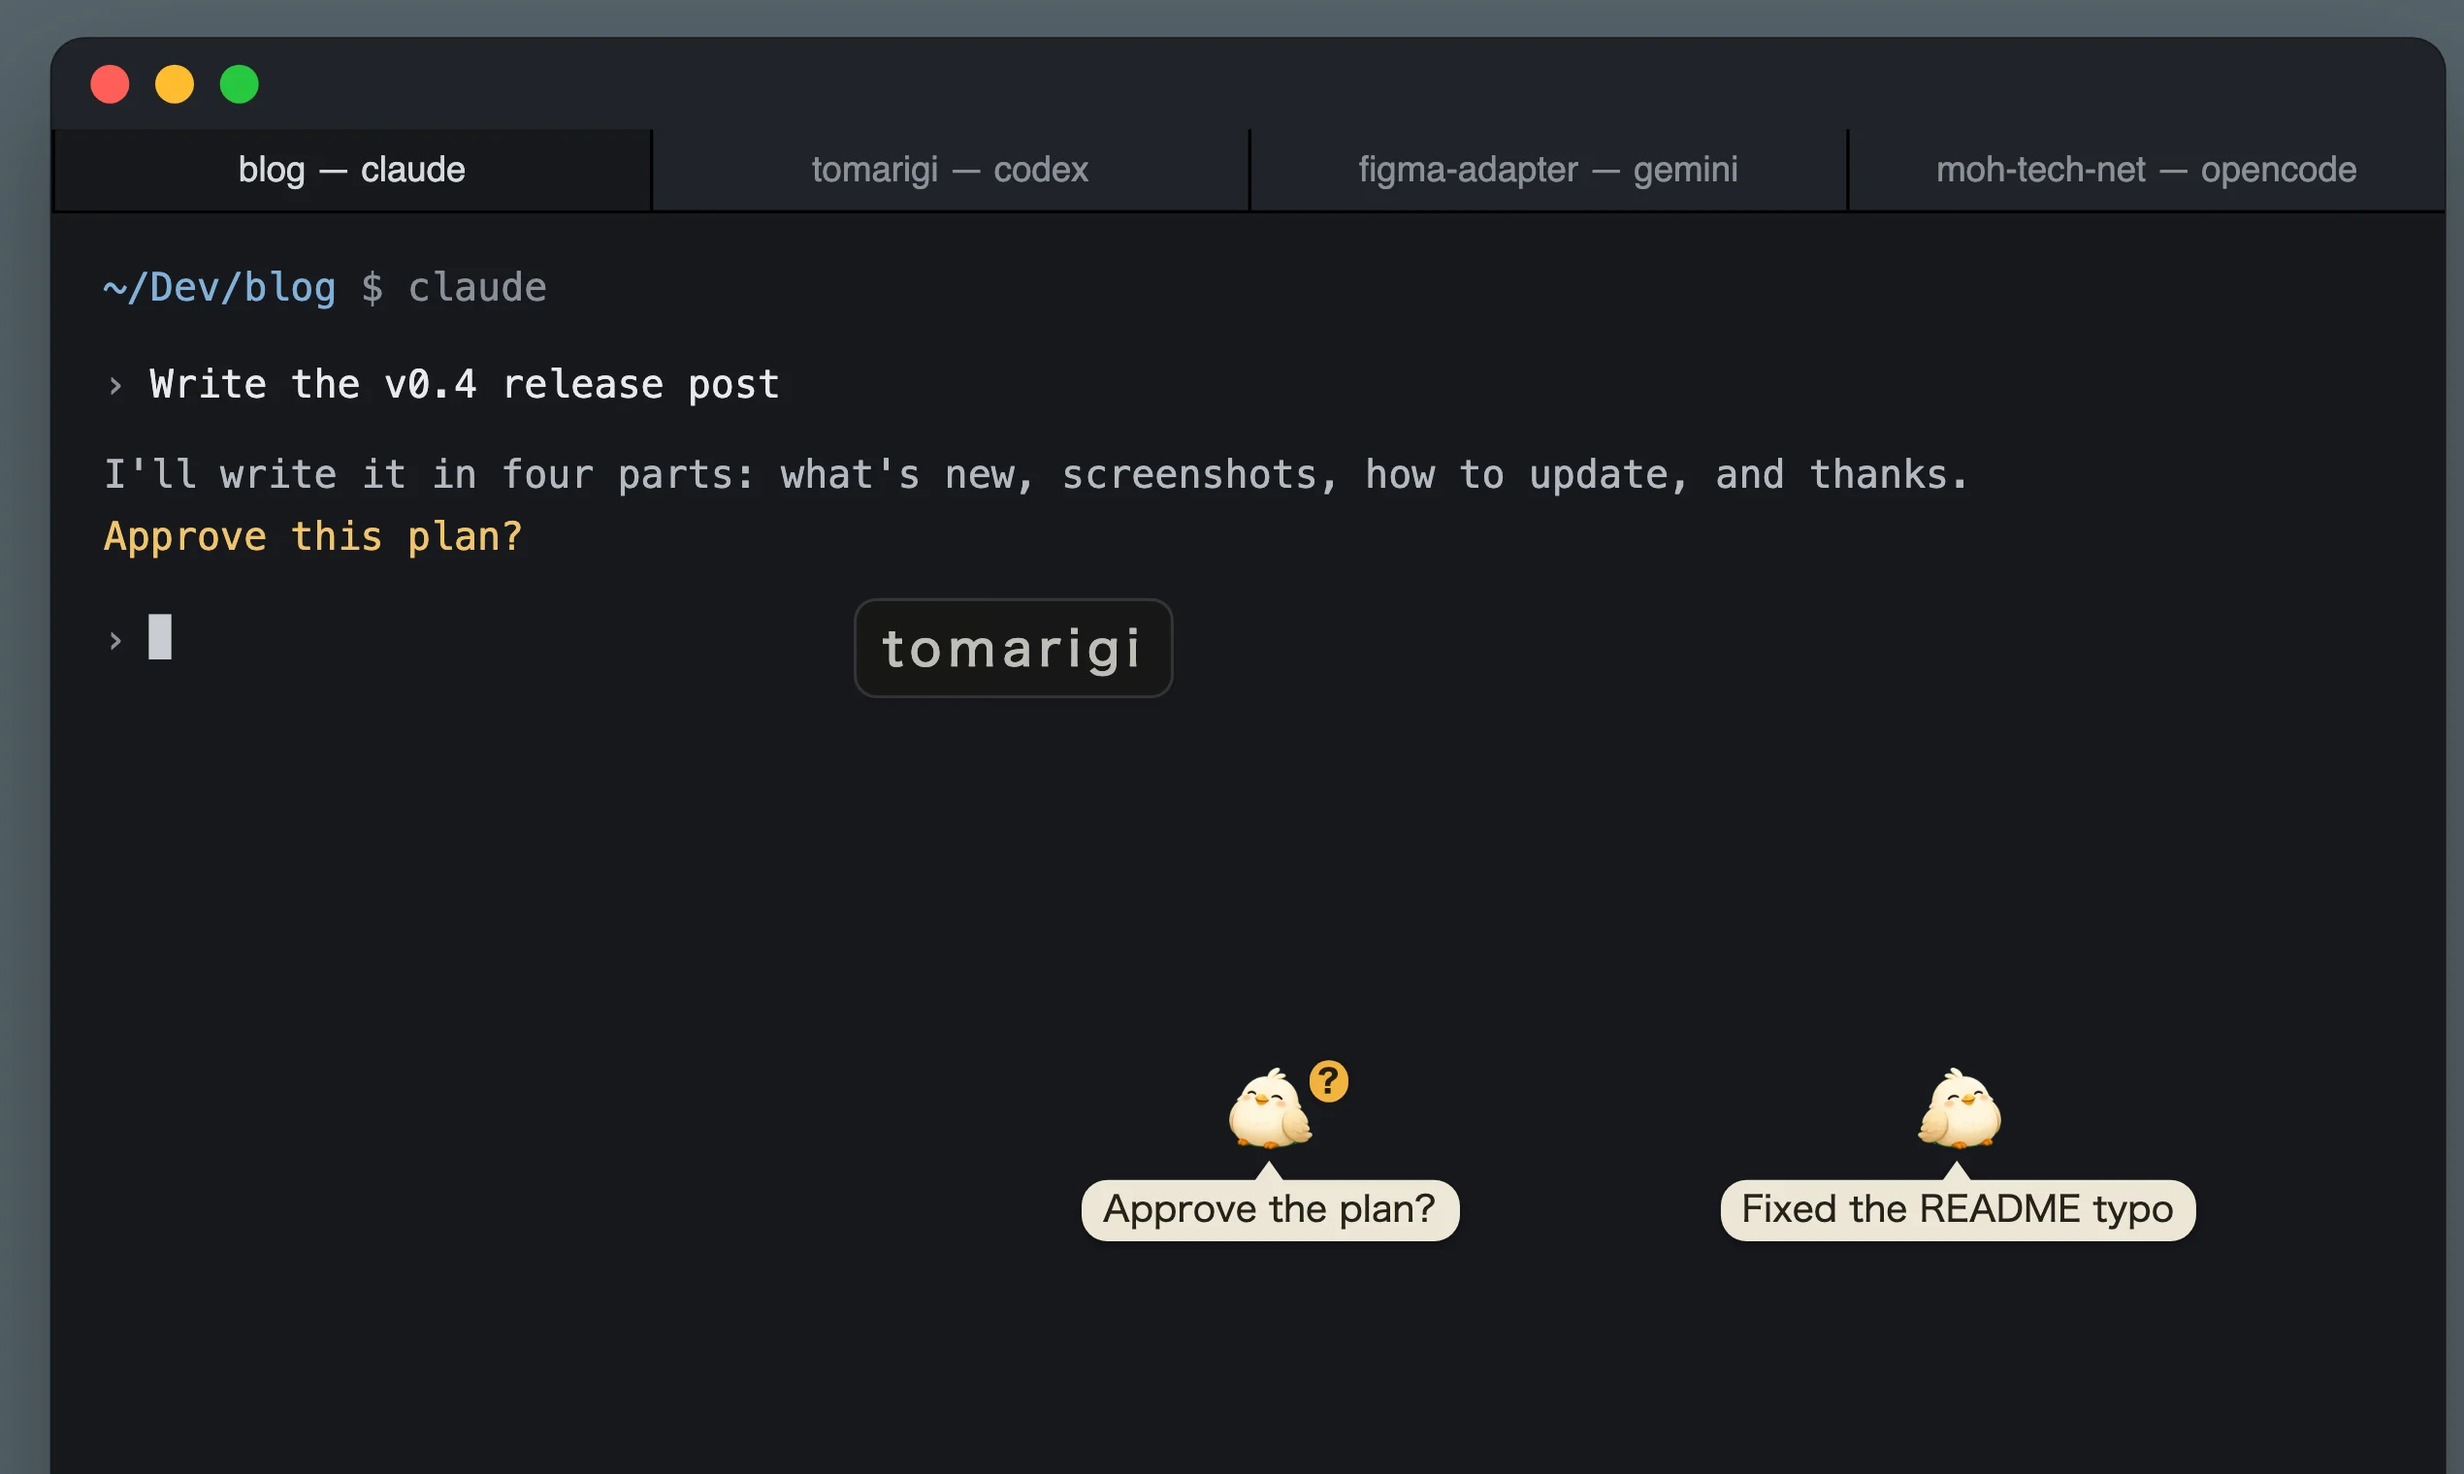
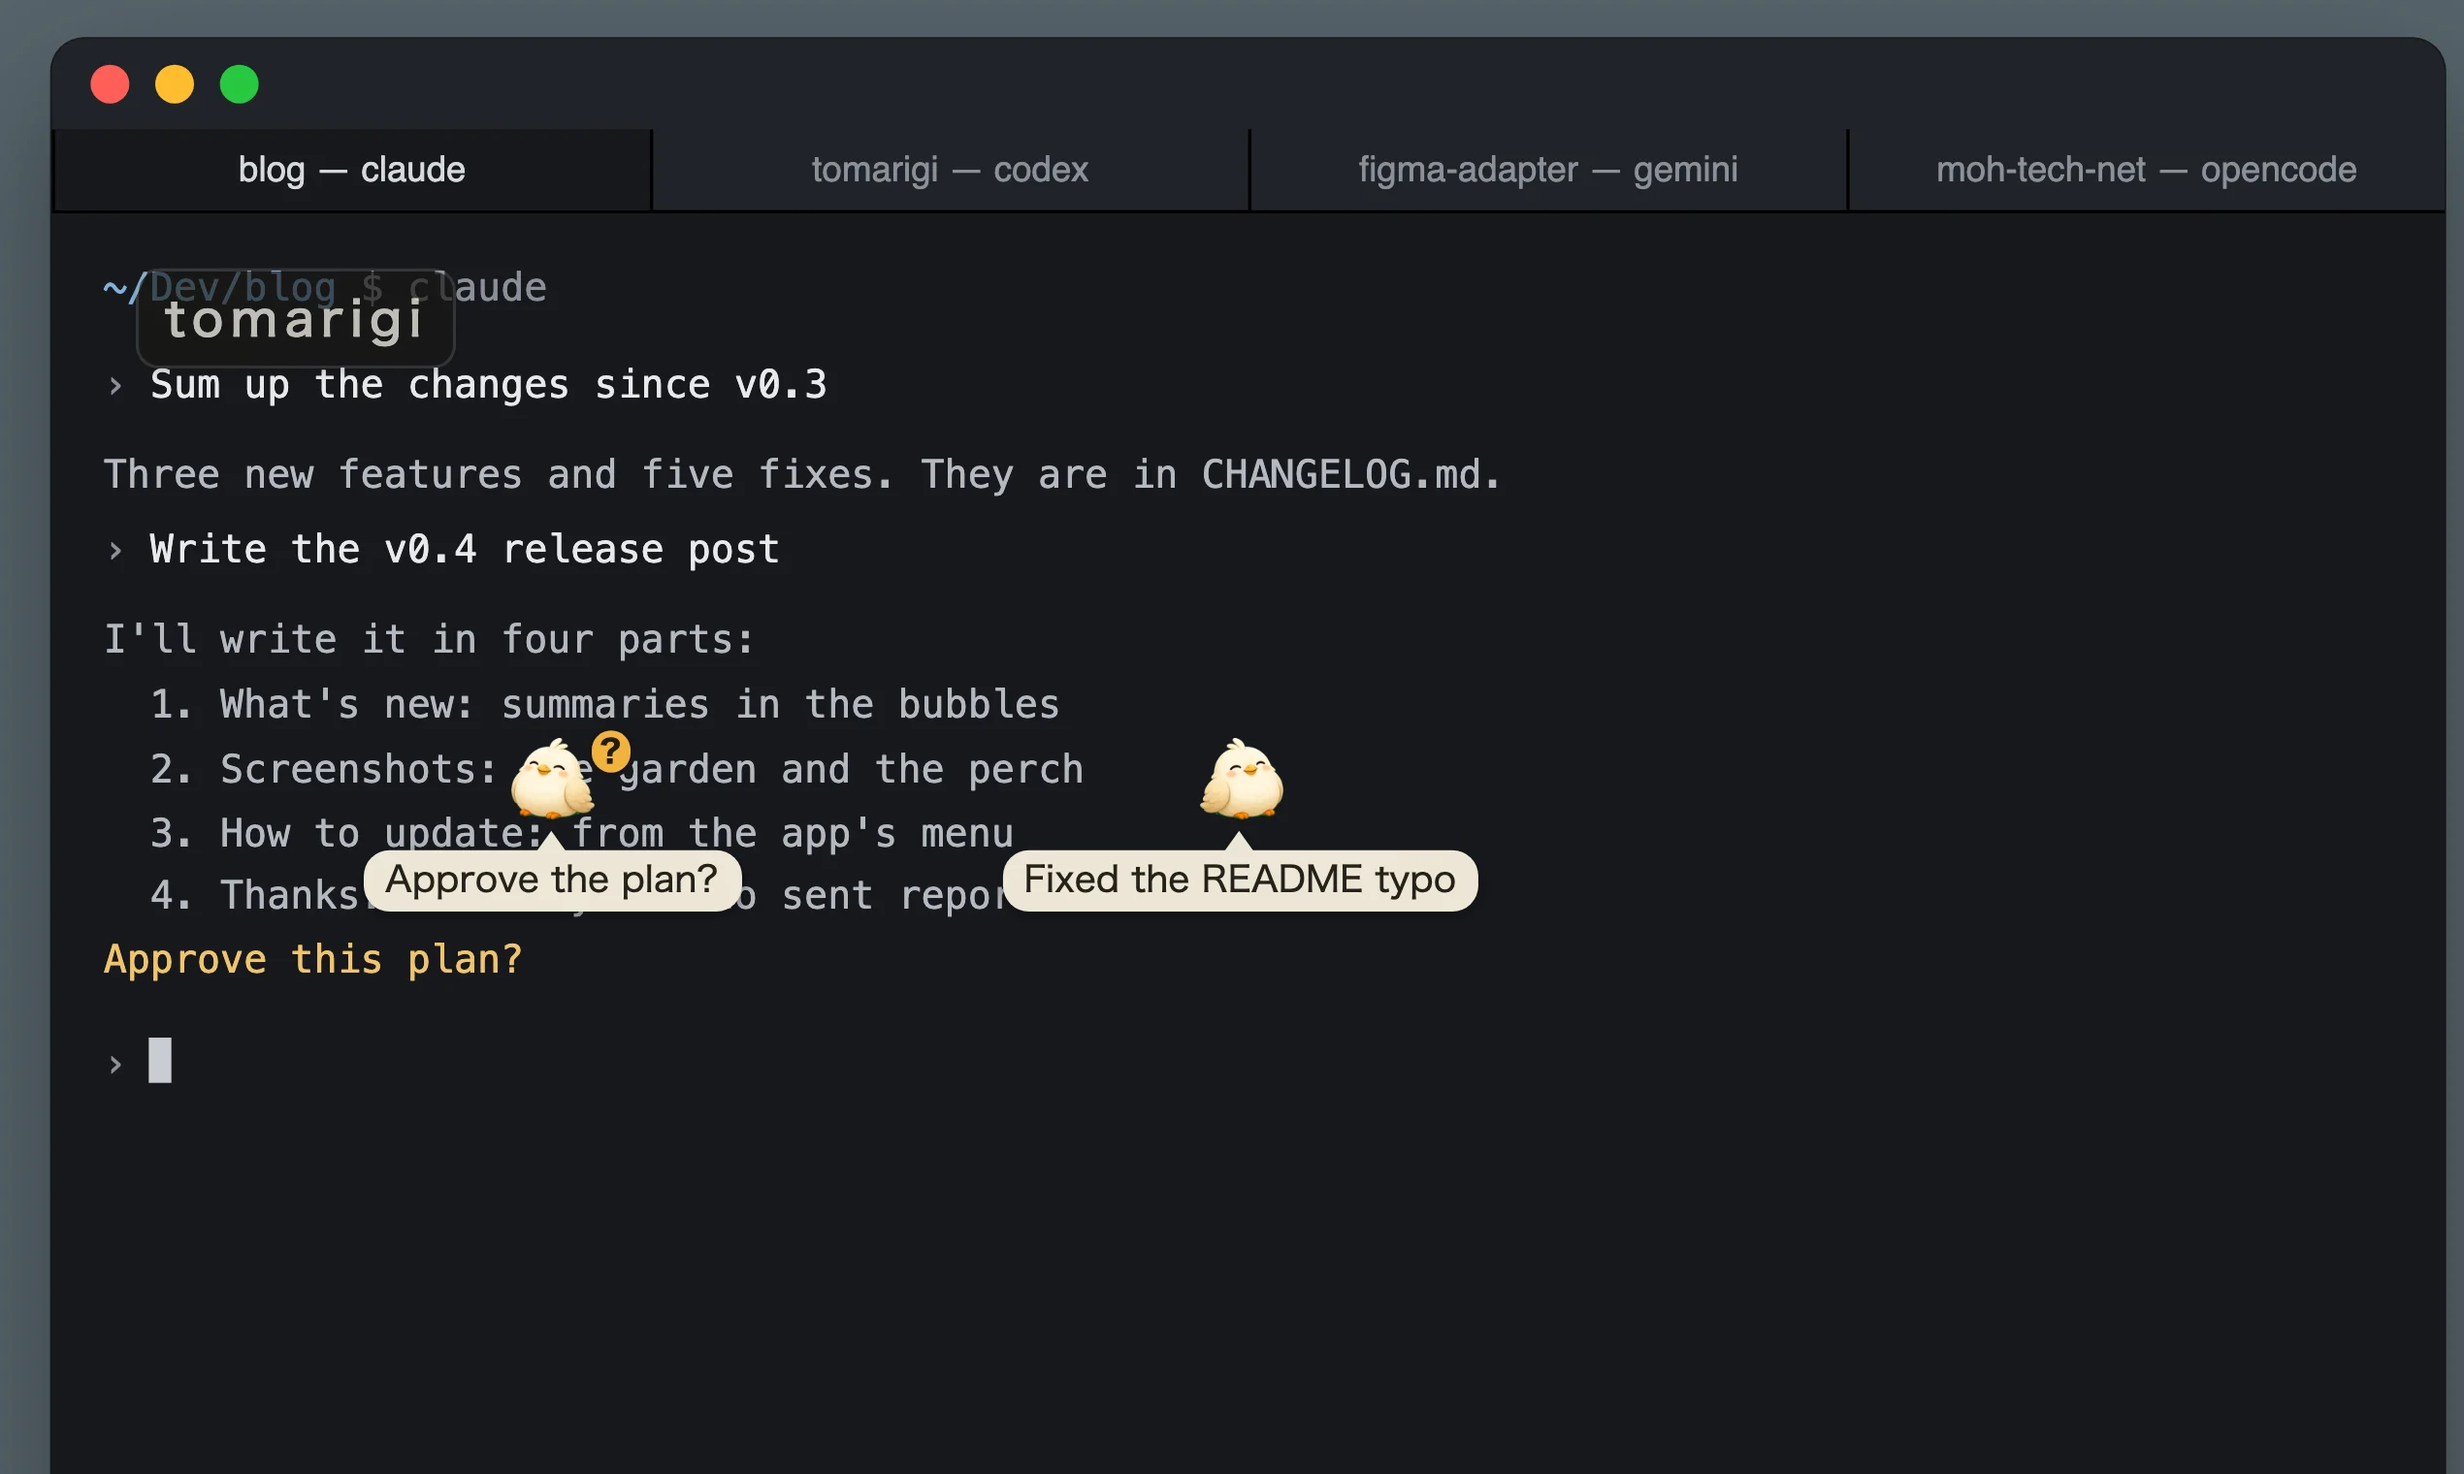
ギャラリー: 1 枚目を端末の文字の上に窓を置いて撮り、にわの鳥の名前を端末のタブにそろえる
- 1 枚目は窓を左に寄せ、札と鳥の後ろに端末の文字が透けて見えるようにする。端末の会話を行に分けて下まで伸ばす
- にわの鳥の名前を端末のタブ（blog / tomarigi / figma-adapter / moh-tech-net）にそろえる
- 1 枚目の題を短くする

diff --git a/src/perch/mock-presets.ts b/src/perch/mock-presets.ts
@@ -568,7 +568,8 @@ export const PRESETS: Preset[] = [
     }),
   },
   // The gallery images in docs/images/ (docs/design.md "Gallery images"). The text follows the UI language, so the
-  // Japanese set shows no English. No tool names, since they are English identifiers in every language
+  // Japanese set shows no English. No tool names, since they are English identifiers in every language. Project names
+  // match the terminal's tabs in scripts/gallery/stage.mjs
   {
     id: "gallery",
     label: "Gallery: garden",
@@ -599,7 +600,7 @@ function tr(en: string, ja: string): string {
 
 const GALLERY: SessionView[] = [
   { id: "gallery/plan", project: "blog", slug: "blog", state: "waiting", sinceMs: 70_000, toolName: "ExitPlanMode" },
-  { id: "gallery/working", project: "docs-migration", slug: "docs-migration", state: "working", sinceMs: 3_000 },
+  { id: "gallery/working", project: "tomarigi", slug: "tomarigi", state: "working", sinceMs: 3_000 },
   {
     id: "gallery/question",
     project: "tomarigi",
@@ -638,8 +639,8 @@ const GALLERY: SessionView[] = [
   },
   {
     id: "gallery/dozing",
-    project: "cloudflare-lab",
-    slug: "cloudflare-lab",
+    project: "figma-adapter",
+    slug: "figma-adapter",
     state: "dozing",
     sinceMs: 9 * 60_000,
     ask: { status: "not_asking" },

diff --git a/docs/design.md b/docs/design.md
@@ -85,7 +85,7 @@ A desktop app for macOS, Windows, and Linux (Tauri 2; see "Platforms") that watc
 - The app watches for as long as it runs and is controlled from the menu bar icon (left click toggles show/hide, right click opens the menu)
 - The menu bar icon is `src-tauri/icons/tray.png` (a template image; Tauri's tray only accepts PNG). Windows and Linux use the color app icon (`src-tauri/icons/32x32.png`) instead, since their taskbars are often dark and a black template image would disappear (Claude's own decision)
 - The app icon (Dock, Finder, Product Hunt thumbnail) shows the same blue round bird as the in-app birds icon set (`src/assets/birds/`), so the icon and the app read as the same character (the user's decision). The icons in `src-tauri/icons/` are generated from `src-tauri/app-icon.png` (1024px, transparent outside the rounded tile) with `bunx tauri icon src-tauri/app-icon.png -o <temp dir>`, then only the files already in `src-tauri/icons/` are copied in (the android / ios output isn't used; `tray.png` is separate and kept)
-- Gallery images for the README and the download page are in `docs/images/` (WebP). They are shot with `scripts/gallery/shoot.mjs`, which opens the mock in a browser (`bun run dev:web`, `?mock=1&panel=0&preset=gallery` / `gallery-asking` / `gallery-bubble`) in a frame over a desktop with a terminal, and sets the browser's language for each set. A browser rather than the app window, so the shots don't depend on the screen they are taken on and the language can be switched without changing the computer's (Claude's own decision). The frosted glass is drawn by the stage page with CSS, and the first image puts the window at rest ("Fade until hovered") by setting `data-fade="rest"`. The three garden shots use the same window size, and the terminal reaches past the window's top and right edges so no terminal edge shows through the frosted glass. The bubble shot shows only birds that have finished their turn (no "?"), so it looks different from the needs-reply shot (Claude's own decision)
+- Gallery images for the README and the download page are in `docs/images/` (WebP). They are shot with `scripts/gallery/shoot.mjs`, which opens the mock in a browser (`bun run dev:web`, `?mock=1&panel=0&preset=gallery` / `gallery-asking` / `gallery-bubble`) in a frame over a desktop with a terminal, and sets the browser's language for each set. A browser rather than the app window, so the shots don't depend on the screen they are taken on and the language can be switched without changing the computer's (Claude's own decision). The frosted glass is drawn by the stage page with CSS, and the first image puts the window at rest ("Fade until hovered") by setting `data-fade="rest"`. The three garden shots use the same window size, and the terminal reaches past the window's top and right edges so no terminal edge shows through the frosted glass. The bubble shot shows only birds that have finished their turn (no "?"), so it looks different from the needs-reply shot. The birds' project names match the terminal's tabs. In the first image the window sits at the left over the terminal's text, so the text shows behind the handle and the birds; the download page crops to that part (Claude's own decision)
   - One set per language: English (app UI in English) for README.md and the English page, Japanese (app UI in Japanese) for README.ja.md and the Japanese page. Reviewers of the Japanese page flagged the English text in the images more than once (Claude's own decision to make a Japanese set)
   - No title text is baked into the image. The caption is written next to the image (README table cell, page HTML) so it can be translated and changed without reshooting (Claude's own decision)
   - All four share the same background and the same scale of the app window, so they read as one set side by side (Claude's own decision)

diff --git a/README.ja.md b/README.ja.md
@@ -4,7 +4,7 @@ AI コーディングエージェント（Claude Code・Codex・Qwen Code・GitH
 
 | | |
 |---|---|
-| <img src="docs/images/gallery-1-on-top-ja.webp" alt="ほかのウィンドウより手前に出る。触っていない間は窓が透明になり、後ろのターミナルの上に鳥と「tomarigi」の札だけが残る（札を押すと窓が戻る）" /><br>ほかのウィンドウより手前に出る。触っていない間は窓が透明になり、後ろのターミナルの上に鳥と「tomarigi」の札だけが残る（札を押すと窓が戻る） | <img src="docs/images/gallery-2-garden-ja.webp" alt="セッション 1 つに鳥が 1 羽" /><br>セッション 1 つに鳥が 1 羽 |
+| <img src="docs/images/gallery-1-on-top-ja.webp" alt="ほかの窓より手前に出て、触っていない間は透けて鳥と札だけが残る" /><br>ほかの窓より手前に出て、触っていない間は透けて鳥と札だけが残る | <img src="docs/images/gallery-2-garden-ja.webp" alt="セッション 1 つに鳥が 1 羽" /><br>セッション 1 つに鳥が 1 羽 |
 | <img src="docs/images/gallery-3-needs-reply-ja.webp" alt="エージェントが返事を待っていると「?」が出る" /><br>エージェントが返事を待っていると「?」が出る | <img src="docs/images/gallery-4-bubble-ja.webp" alt="エージェントの応答が終わると、吹き出しに中身の要約が出る" /><br>エージェントの応答が終わると、吹き出しに中身の要約が出る |
 
 > [!IMPORTANT]

diff --git a/README.md b/README.md
@@ -6,7 +6,7 @@ A desktop app for macOS, Windows, and Linux (the Windows and Linux builds haven'
 
 | | |
 |---|---|
-| <img src="docs/images/gallery-1-on-top-en.webp" alt="Stays on top of your other windows. While you're not using it, the window turns clear, leaving only the birds and the “tomarigi” tag over the terminal behind (click the tag to bring the window back)" /><br>Stays on top of your other windows. While you're not using it, the window turns clear, leaving only the birds and the “tomarigi” tag over the terminal behind (click the tag to bring the window back) | <img src="docs/images/gallery-2-garden-en.webp" alt="One bird for each agent session" /><br>One bird for each agent session |
+| <img src="docs/images/gallery-1-on-top-en.webp" alt="Stays on top. Turns clear when you're not using it, leaving the birds and tag" /><br>Stays on top. Turns clear when you're not using it, leaving the birds and tag | <img src="docs/images/gallery-2-garden-en.webp" alt="One bird for each agent session" /><br>One bird for each agent session |
 | <img src="docs/images/gallery-3-needs-reply-en.webp" alt="A question mark shows up when the agent is waiting on you" /><br>A question mark shows up when the agent is waiting on you | <img src="docs/images/gallery-4-bubble-en.webp" alt="When a turn ends, the bubble sums it up" /><br>When a turn ends, the bubble sums it up |
 
 > [!IMPORTANT]
